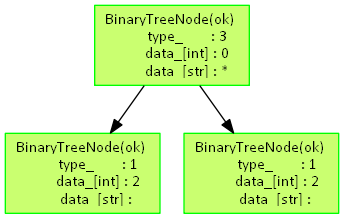
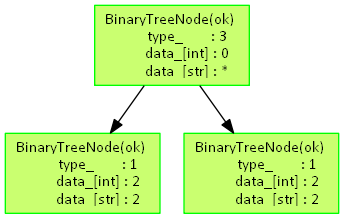
Dump to tex is working

Changed region(s): [[0.6686, 0.8767, 0.9302, 0.9589], [0.1453, 0.8767, 0.407, 0.9589]]

diff --git a/TechnoTrack/Include/Tex.h b/TechnoTrack/Include/Tex.h
@@ -67,9 +67,9 @@ bool DumpTexTree(const char *logTEXname, BinaryTreeNode &node)
 	FILE *nowBat = NULL;
 	fopen_s(&nowBat, ".\\Logs\\BinaryTree\\toTEX.bat", "w");
 	assert(nowBat);
-
-	fprintf(nowBat, "C:\\MiKTeX2.9\\miktex\\bin\\x64\\pdflatex.exe ");
-	fprintf(nowBat, "\"%%CD%%\\Logs\\BinaryTree\\%s\" ", logTEXname);
+	fprintf(nowBat, "cd \"%%CD%%\\Logs\\BinaryTree\\\n "
+					"C:\\\"MiKTeX 2.9\"\\miktex\\bin\\x64\\pdflatex.exe ");
+	fprintf(nowBat, "%s.tex\" ", logTEXname);
 
 	fclose(nowBat);
 

diff --git a/TechnoTrack/Tests/BinaryTree_TEST.cpp b/TechnoTrack/Tests/BinaryTree_TEST.cpp
@@ -19,7 +19,8 @@ int main()
 
 	(root).DumpToPNG("test8");
 	//delete t3;
-	DumpTexTree("test8", root);
+	DumpTexTree("test8_1", root);
+
 
 	system("pause");
 	return 0;

diff --git a/TechnoTrack/Logs/BinaryTree/test8.tex b/TechnoTrack/Logs/BinaryTree/test8.tex
@@ -1,4 +1,4 @@
 \documentclass{proc}
 \begin{document}
-$ ( (    ) * (    ) ) $
+$ ( (  2  ) * (  2  ) ) $
 \end{document}
